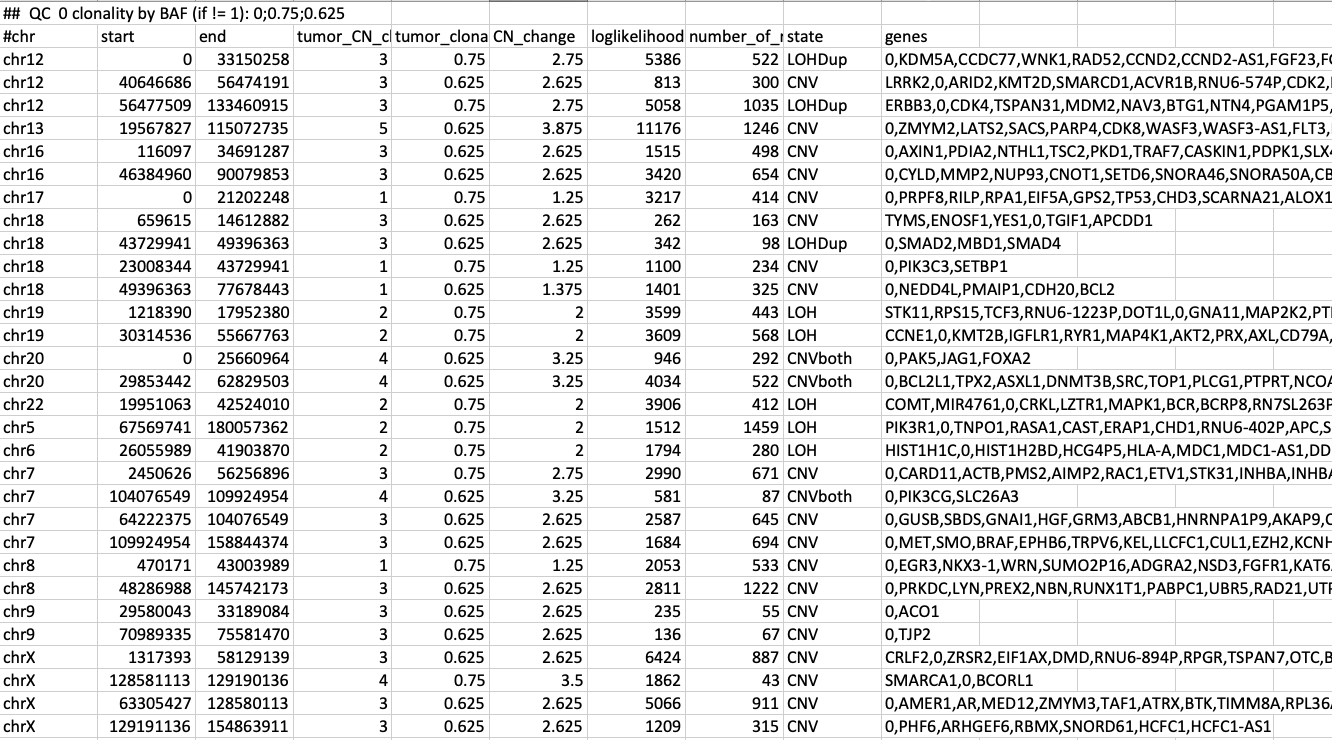
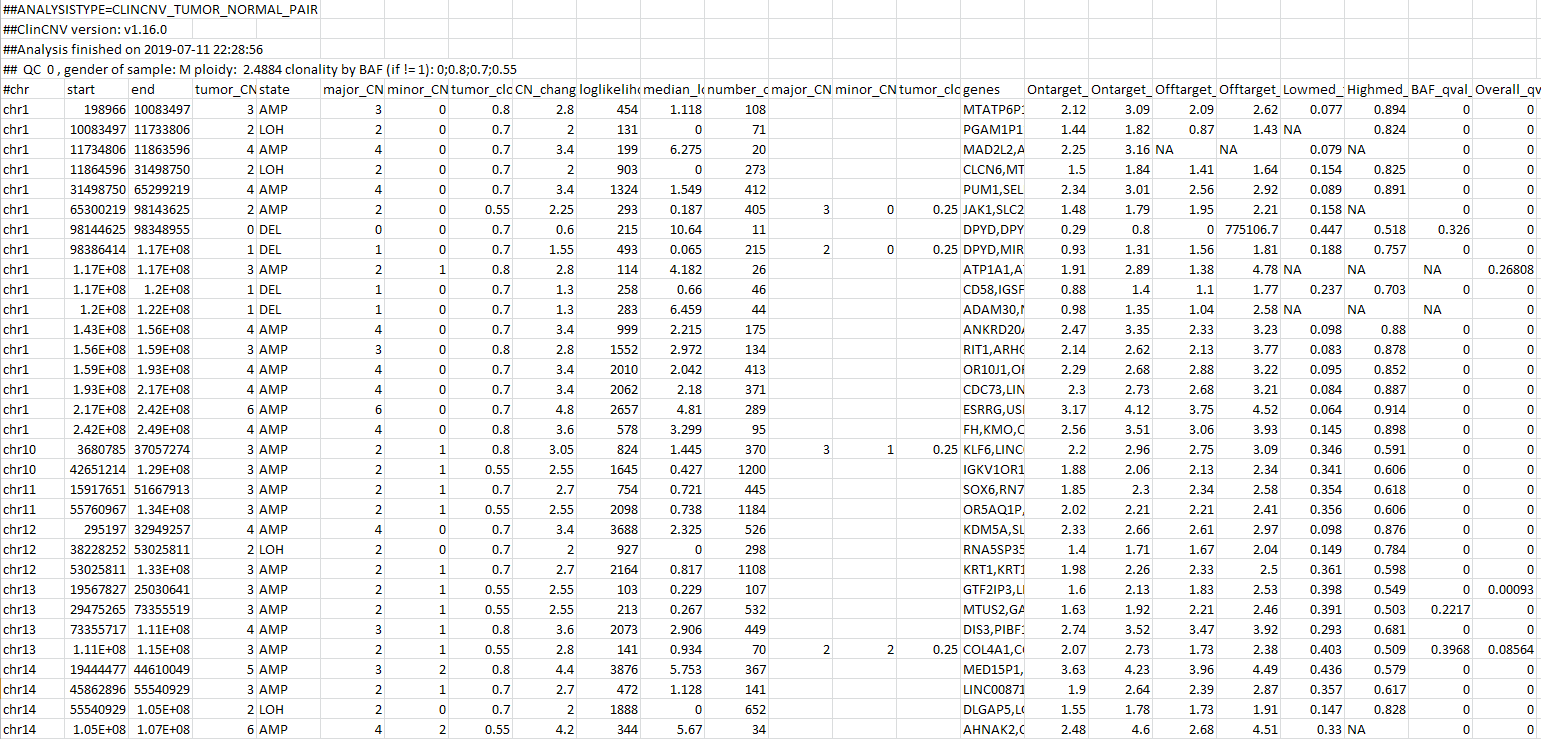
Added file

diff --git a/doc/somatic_CNA_analysis.md b/doc/somatic_CNA_analysis.md
@@ -119,7 +119,7 @@ An investigator has to be especially careful with balanced copy number changes (
 
 ### IGV tracks of coverage and BAFs and results folder
 
-_This step is useful if you go into in-depth analysis of each CNA in IGV. Useless otherwise (if you want to access the general quality of the calls)._
+_This step is useful if you go into in-depth analysis of each CNA in IGV. Useless otherwise (if you want to assess the general quality of the calls)._
 
 In folder `/your_output_folder/somatic/tumor_sample-paired_normal_sample` you can find IGV tracks, clonality plot and `.tsv` file with the results table.
 
@@ -238,6 +238,8 @@ Even though, `ClinCNV` may be terribly wrong. E.g. in this situation (pictured b
 
 ![Allele specific plot - wrong calls!][clincnv_wrong]
 
+For correction of mistakes not only the baseline can be changes, but also filtering step (step 9). In general, QC filtering of variants improves calling of variants, but if the tumor has at least one small cancer cell fraction sub-clone - this filtering may distort the calls. Try to turn it off (set to 0).
+
 
 ### Results table
 
@@ -245,11 +247,18 @@ Results of somatic CNA calling are summarised in a table:
 
 ![Table of results][results_table]
 
-Top line shows the clonalities that were considered "significant" by `ClinCNV`. QC is 0 so far since we were not able to find a relevant QC measure (but we are working on it and something meaningful will appear there soon).
+Top three lines just shows type of the analysis, the version used and when the analysis was finished and may be ignored.
+
+The fourth line is informative. At first, _QC_ shows predicted False Discovery Rate. It is measured as the percentage of CNVs that were detected as allele imbalanced, but show no deviation in BAFs. _gender of sample_ is, actually, gender of sample. Then there is estimated ploidy (rarely equal exactly to to 2 even if no CNAs were detected since it is estimated from coverage and it is, after all the transformations, continuous-like). Then clonality -- it shows different sub-clones' cancer cell fraction. The biggest number is considered as _purity_ of the tumor. Other numbers are given relatively to all the DNA sequenced, thus, not normalized by purity.
+
+Next line has column names. What they denote:
+
 
 First three columns of the table show coordinates of the variant.
 
 4th column - _"tumor_CN_change"_ - shows a copy number after correction on percentage of this clone in sequenced tumor mass. Usually this number is the most interesting for the researchers.
+
+5th and 6th - _"major_CN"_ and _"minor_CN"_ shows allelic decomposition of copy-number alteration.
 
 _"tumor_clonality"_ shows to which subclone this particular variant belongs.
 
@@ -257,12 +266,23 @@ _"CN_change"_ is an absolute copy-number change. At first `ClinCNV` finds an abs
 
 _"loglikelihood"_ shows the quality score of particular variant, bigger the score is - more credible is the variant.
 
+_"median_loglikelihood"_ shows the median of log-likelihood. If it is negative - then this variant was caused by several outliers and is not real. It is 0 for LOH since the BAF signal is sparse.
+
 _"number_of_regions"_ is the number of datapoints within the variant (on- and off-target regions). More datapoints usually means more credible variant.
 
-_"state"_ is an important column. It can be 1) **"CNV"** - classic copy-number change, 2) **"LOH"** - copy-number heutral loss-of-heterozgysity, 3) **"LOHDup"** - loss of heterozygosity followed by a duplication of the particular region (such event creates a unique pattern of B-allele frequency and coverage change), 4) **"CNVboth"** - copy-number change without B-allele frequency balance shift (that mean both 2 alleles were e.g. duplicated or triplicated), 5) **"CNVcomplex"** - when both alleles had experienced copy-number change, but with different amount (e.g. one allele was copied up to 2 copies and the second one was copied up to 5 copies). "CNVboth", "LOHDup", "CNVcomplex" are considered as rare variants and their score is slightly penalised comparing to other variants.
+_"major_CN_allele2"_ and _"minor_CN_allele2"_ denotes "the second round of CNAs that probably happened". Always empty when you turn this mode off (step 13). 
 
-_"genes"_ shows the list of affected genes if you've annotated your `.bed` file before the analysis, otherwise it shows just 0.
+_"tumor_clonality_2"_ denotes the percentage of cells that experienced the second round of CNAs. It is **always** smaller than the first Cancer Cell Fraction (well, it is expected).
 
+_"genes"_ field is empty if you have not annotated your `bed` file with genes. 
+
+Next 4 fields (_"ontarget_RD_CI_lower"_ etc) shows the bounds of 95% confidence interval for read depth.
+
+_"Lowmed_tumor_BAF"_ and _"Highmed"_ shows medians of tumor BAFs which are below the median of normal BAFs and above. It is useful for diagnostics of small variants (p-value may be non-significant, but the shift could be seen).
+
+_"BAF_qval_fdr"_ is a q-value for BAFs within the variant. Is expected to be low for allele-imbalanced variants and high for short variants with only couple of SNVs inside or allele-balanced variants (e.g., CN2 of one allele and CN2 of another allele).
+
+_"Overall_qvalue"_ is q-value obtained from merged p-values from coverage and BAFs.
 
 
 ## I do not have time! I have hundreds of samples!
